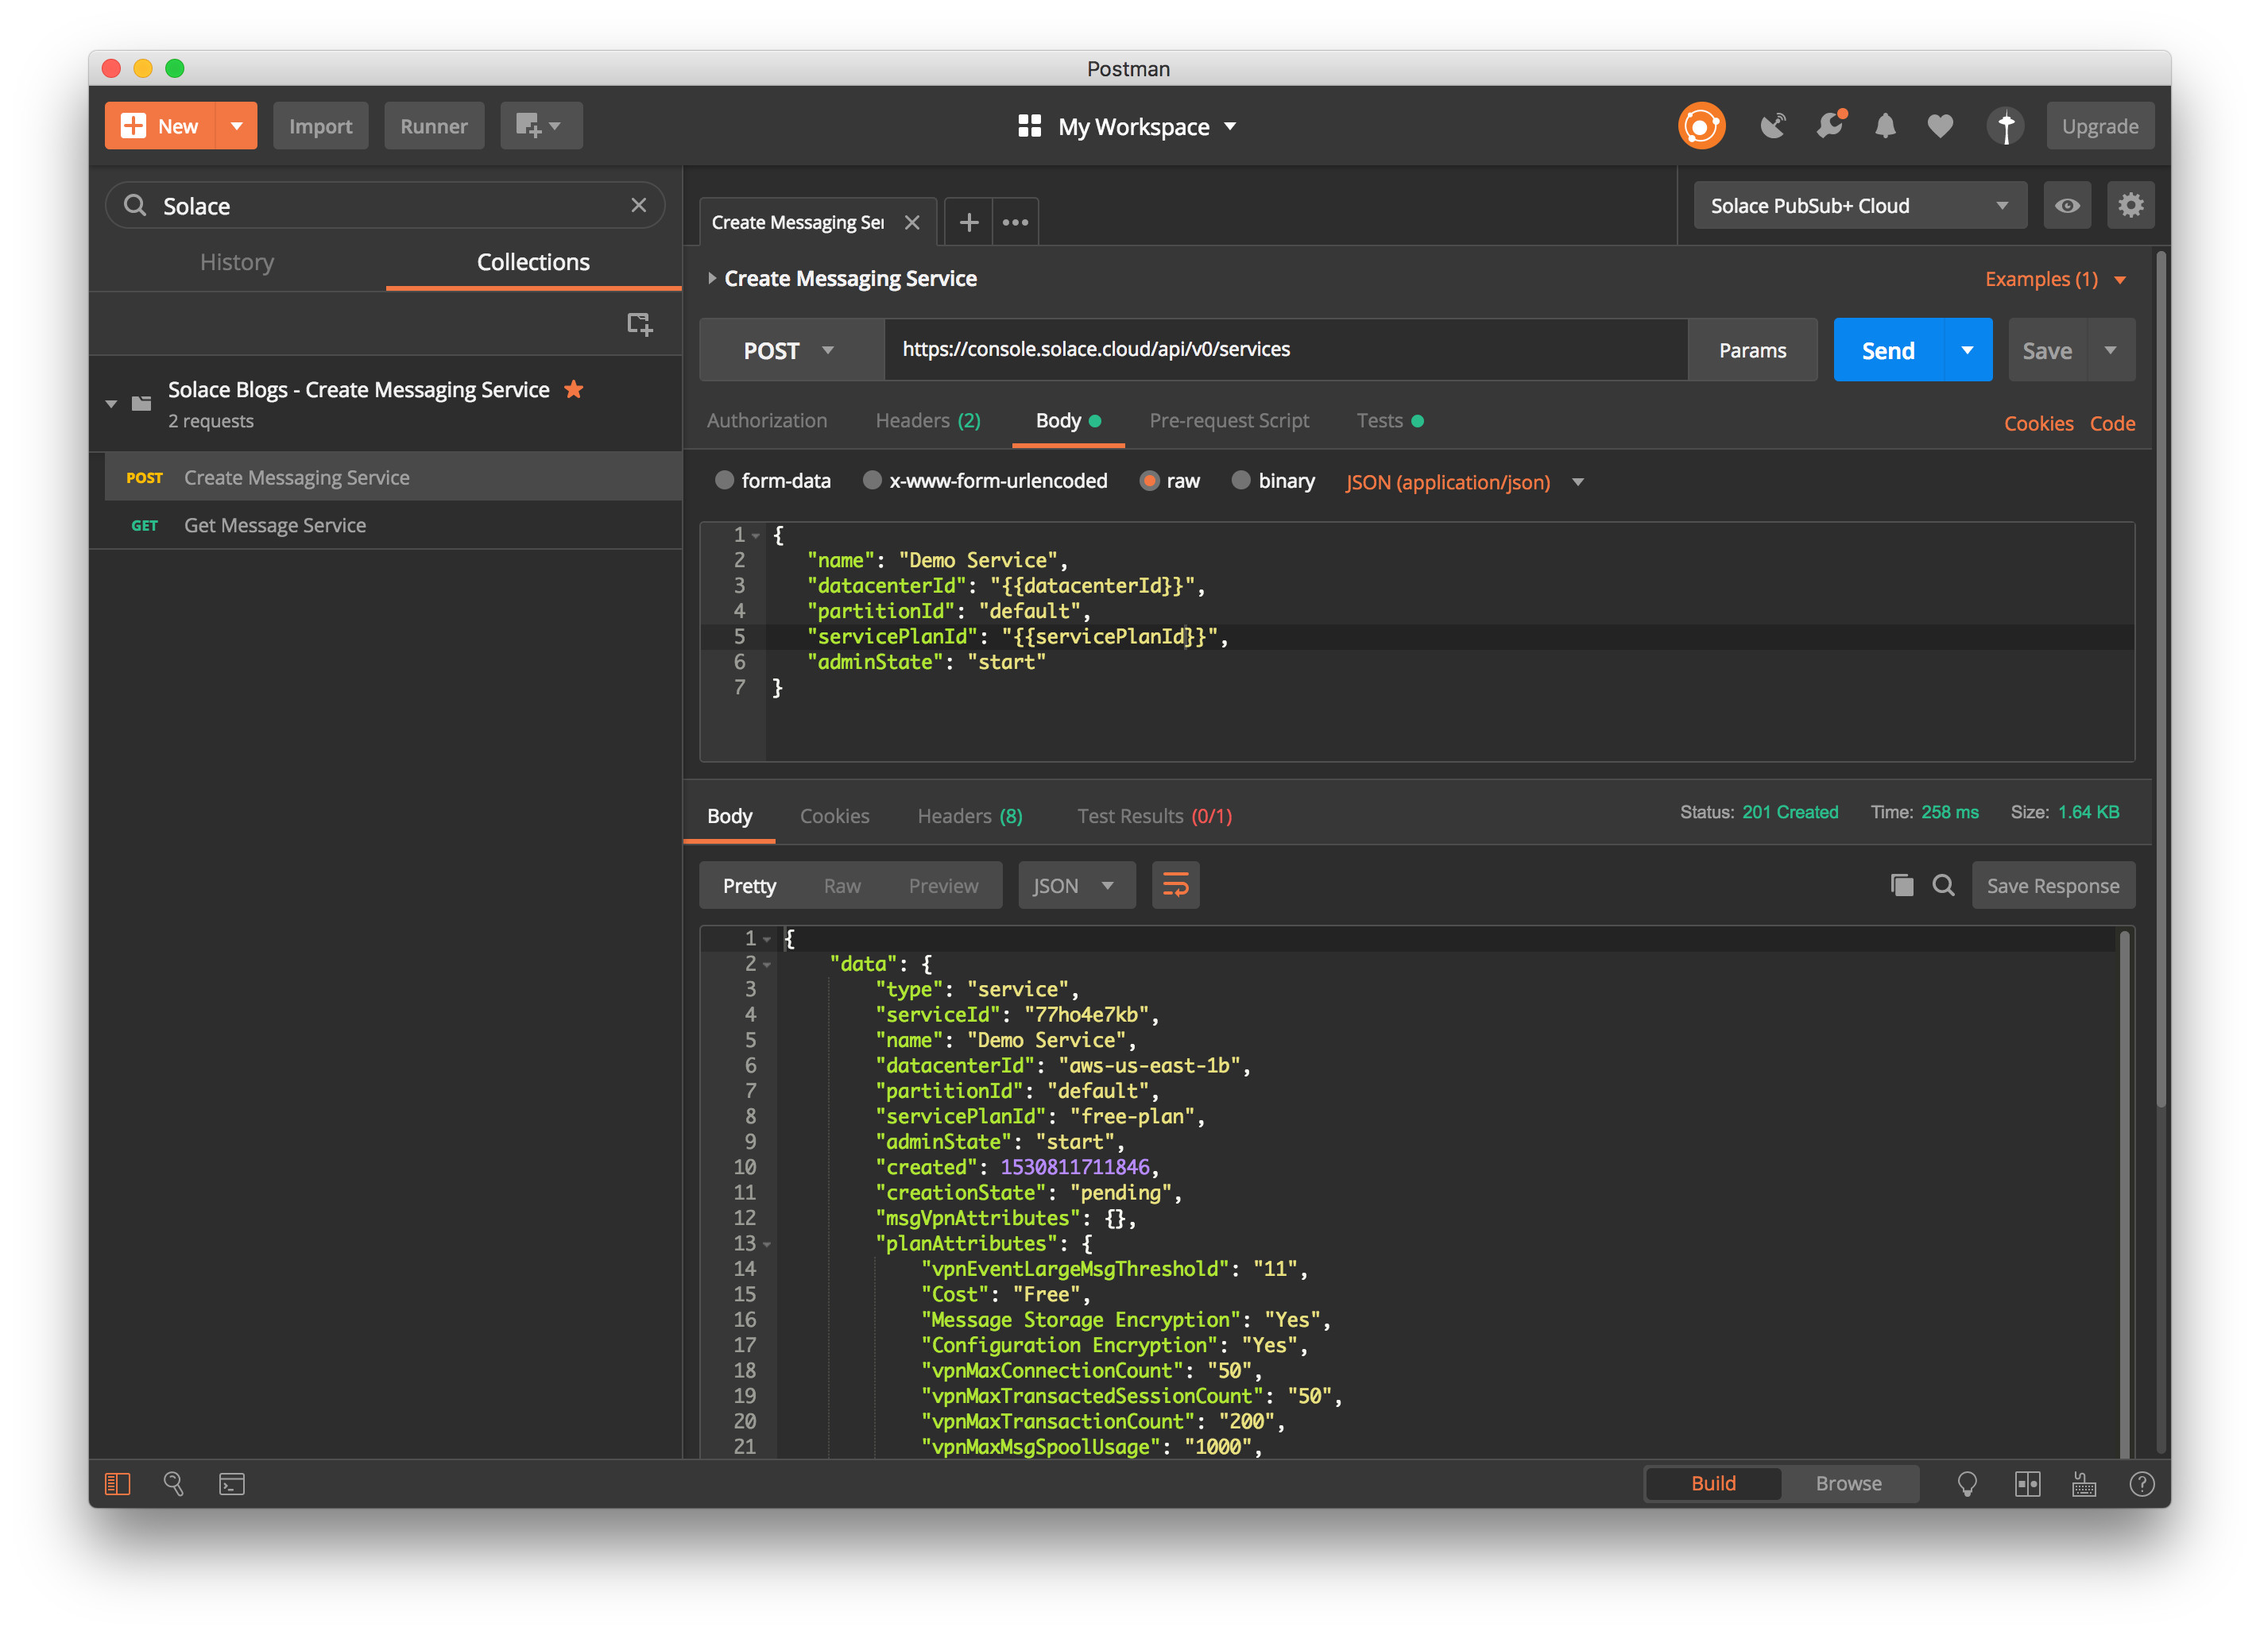
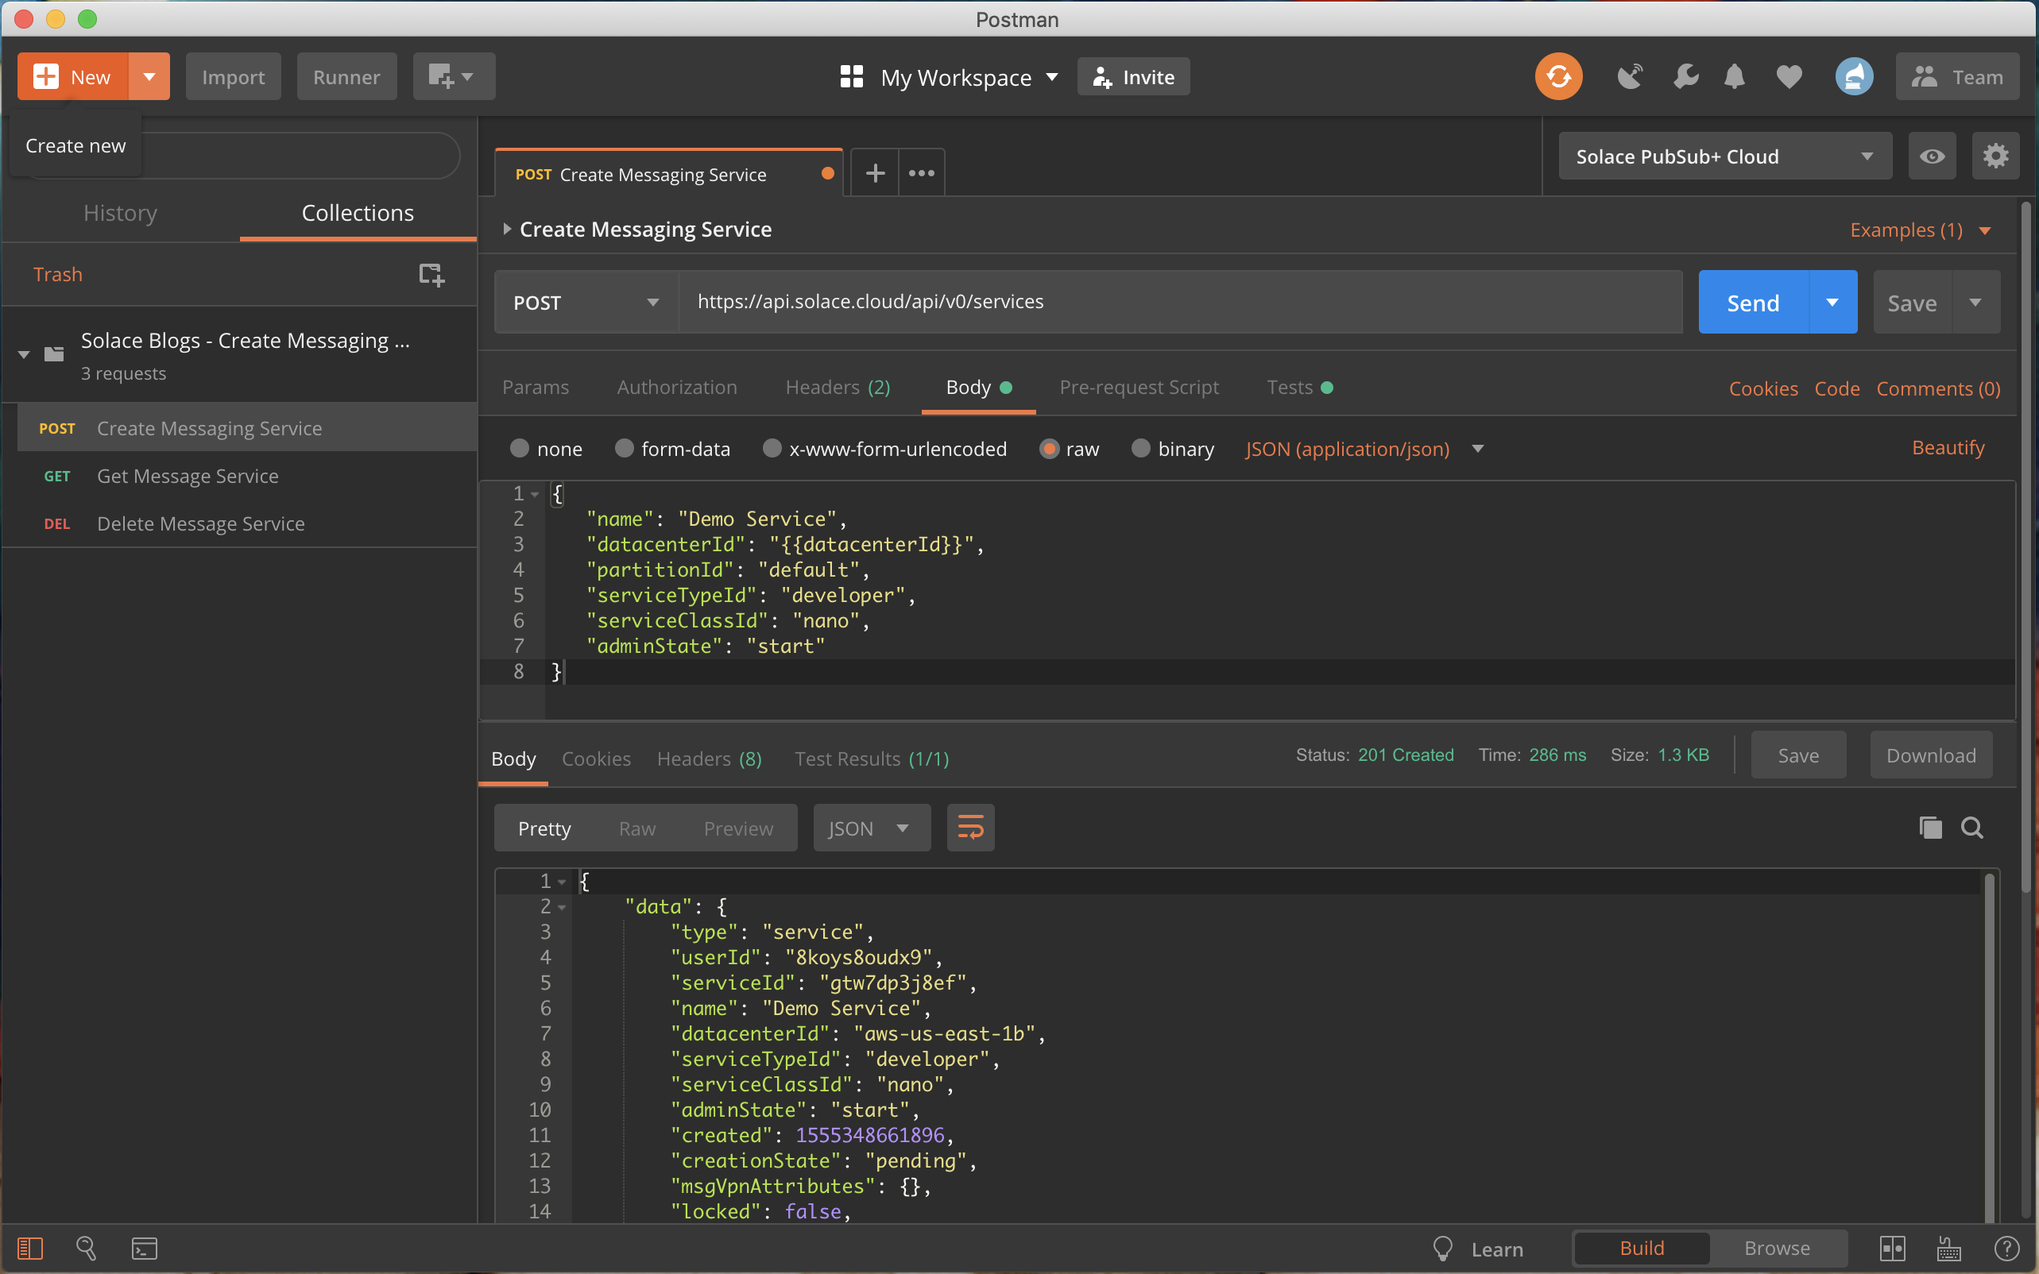
REST API learn page is broken (#46)

diff --git a/docs/group_howto/ght_use_rest_api_services.rst b/docs/group_howto/ght_use_rest_api_services.rst
@@ -73,8 +73,8 @@ You need an API token to authenticate and authorize REST requests. When creating
 
   .. image:: ../img/use_api_tokens_5.jpg
 
-  c. Paste the token in the value field of the **apiToken** key and then click Update.
-
+  c. Paste the token in the value field of the **apiToken** key. You must also select a service type and service class. For a free service, set the **serviceTypeId** to **free** and the **serviceClassId** to **free** as well. Once all the values are entered, click Update.
+  
   .. image:: ../img/use_api_tokens_6.jpg
 
 **Great!** Now we have a token, and Postman is set up to use it!
@@ -99,6 +99,7 @@ You should see a JSON response confirming that a messaging service was created.
 Now go back to Solace Cloud and you should see your service.
 
 .. image:: ../img/use_api_tokens_9.jpg
+   :target: https://console.solace.cloud/api-tokens
 
 Awesome! You have just created a messaging service.
 
